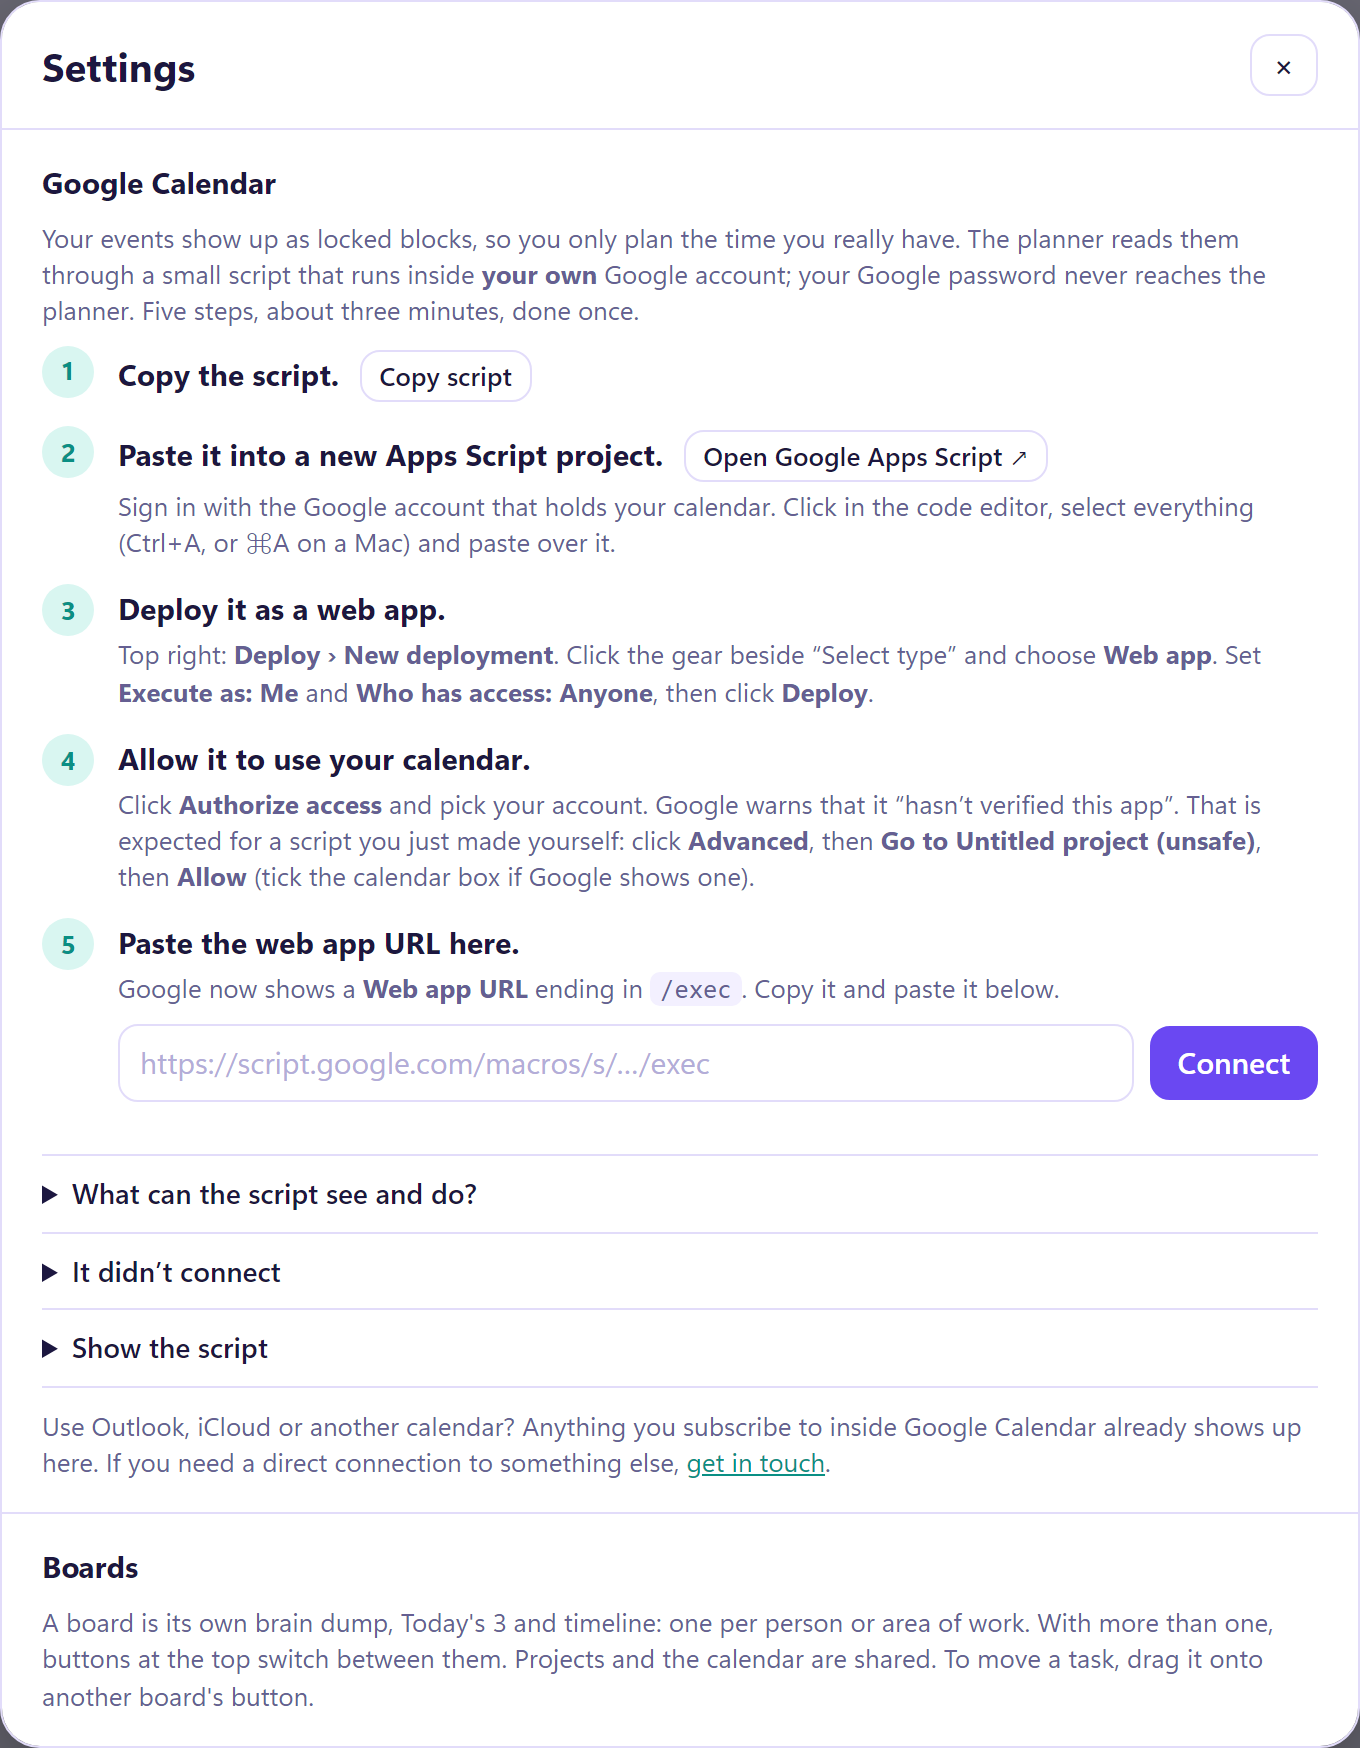
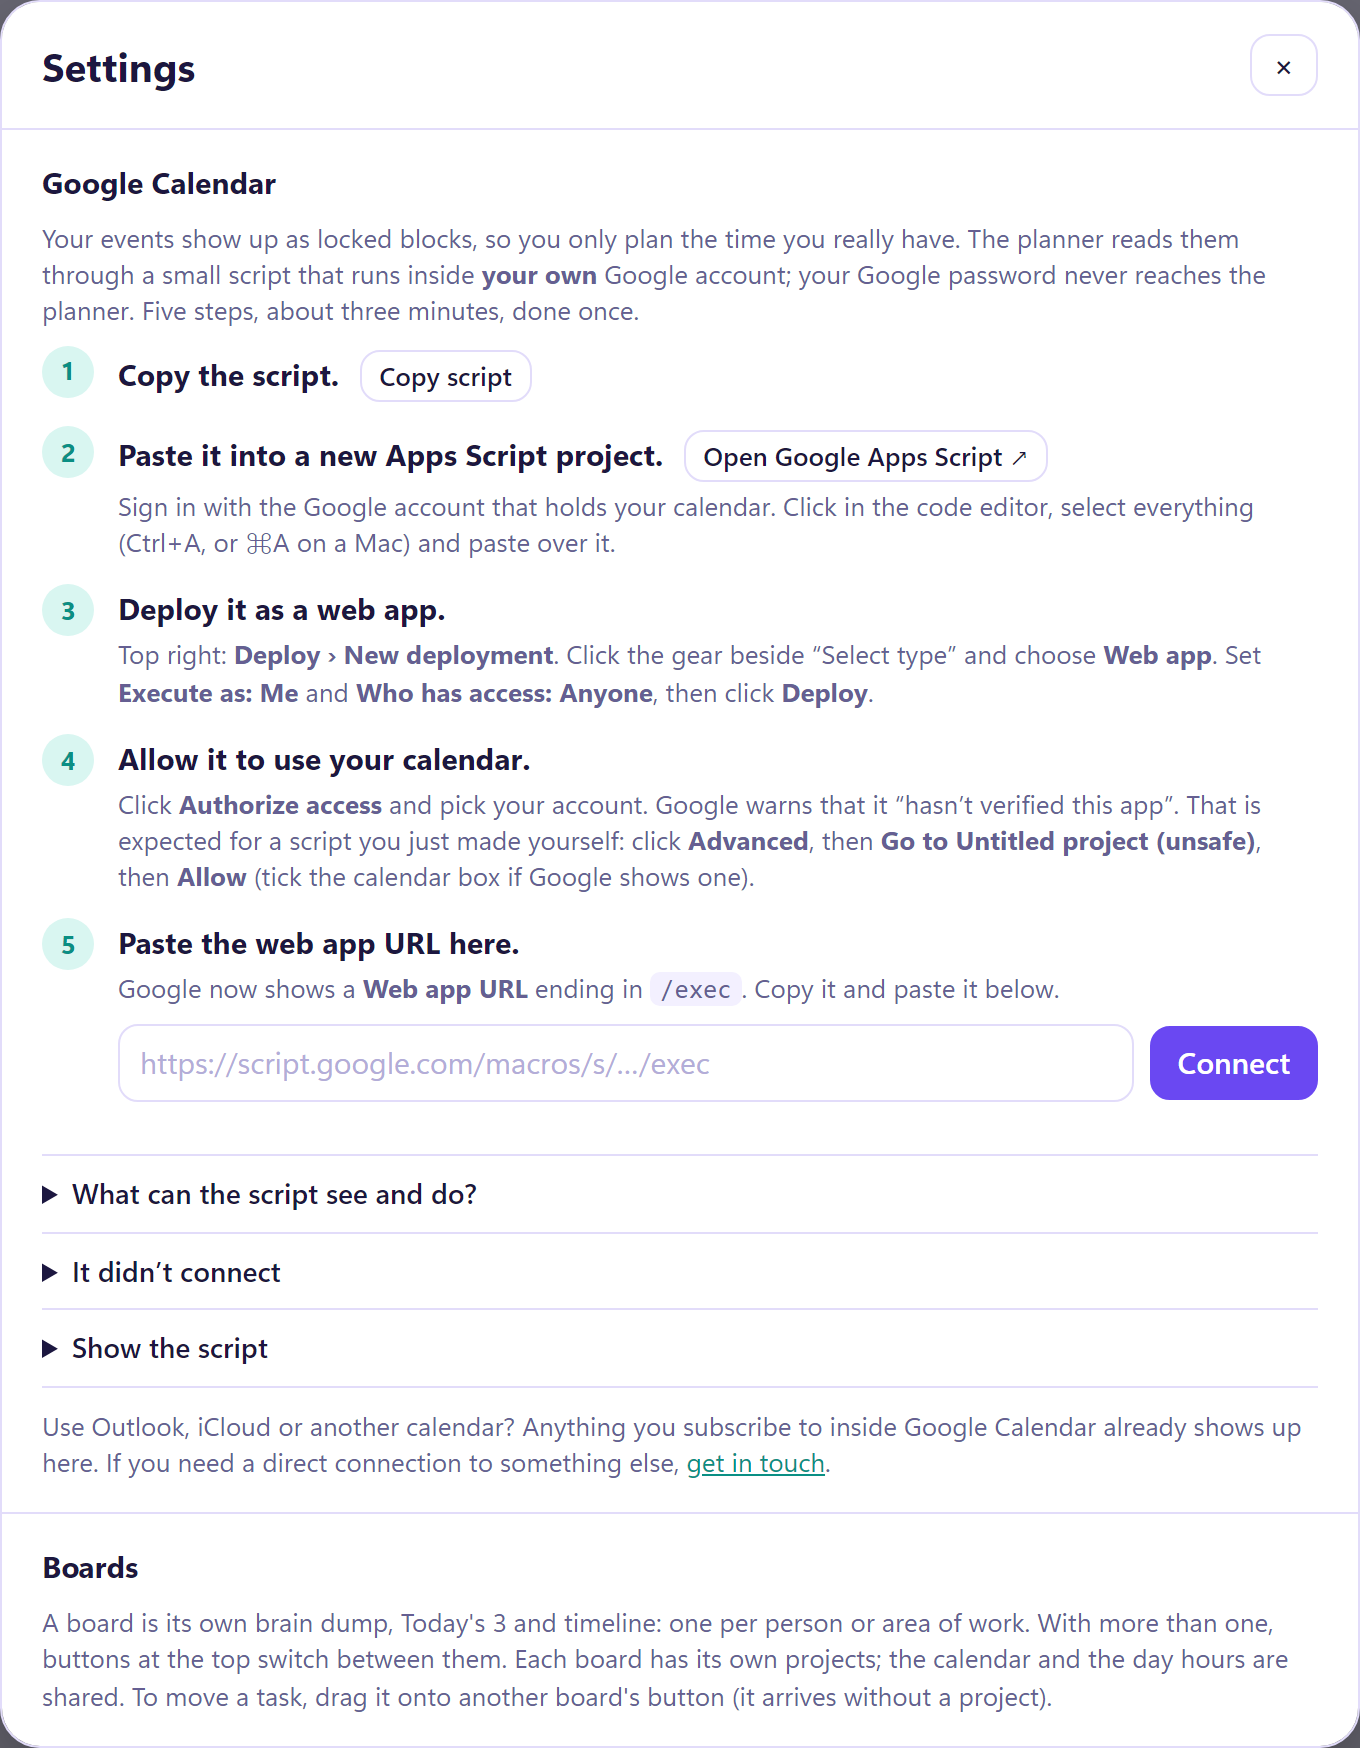
The board fills the whole window

Changed region(s): [[0.0309, 0.9268, 0.9265, 0.9886]]

diff --git a/public/assets/app.css b/public/assets/app.css
@@ -49,8 +49,9 @@ code{font:13px/1.3 Consolas,Menlo,monospace;background:var(--bg);border-radius:5
 .err{background:var(--bad-soft);color:var(--bad-ink);border-radius:10px;padding:9px 12px;margin:0;font-size:14px}
 
 /* board */
-.wrap{max-width:1360px;margin:0 auto;padding:18px 18px 50px}
-.app{background:var(--card);border:1px solid var(--line);border-radius:22px;box-shadow:var(--shadow);overflow:hidden}
+/* the board fills the window, whatever its size */
+.wrap{padding:12px;min-height:100vh;display:flex}
+.app{flex:1;min-width:0;display:flex;flex-direction:column;background:var(--card);border:1px solid var(--line);border-radius:18px;box-shadow:var(--shadow);overflow:hidden}
 /* boards: the buttons that switch between separate task lists */
 .tabs{display:flex;gap:8px;padding:12px 20px 0;flex-wrap:wrap}
 .tab{--hue:var(--pink);border:1.5px solid var(--line);background:none;color:var(--soft);border-radius:12px;padding:8px 20px;font-weight:700;font-size:15px}
@@ -74,7 +75,7 @@ code{font:13px/1.3 Consolas,Menlo,monospace;background:var(--bg);border-radius:5
 .btn.icon{padding:7px 11px;line-height:1}
 .btn.small{padding:3px 9px;font-size:13px}
 .btn:disabled{opacity:.6;cursor:wait}
-.cols{display:grid;grid-template-columns:320px 340px 1fr}
+.cols{flex:1;display:grid;grid-template-columns:minmax(300px,1fr) minmax(320px,1fr) minmax(0,2fr)}
 .col{padding:18px 18px 22px;border-right:1px solid var(--line);min-width:0}
 .col:last-child{border-right:0}
 /* each of the three steps has its own color */
@@ -220,7 +221,7 @@ dialog textarea{width:100%;border:1.5px solid var(--line);border-radius:10px;pad
 @media(max-width:1000px){
   .cols{grid-template-columns:1fr}
   .col{border-right:0;border-bottom:1px solid var(--line)}
-  .wrap{padding:8px 8px 40px}
+  .wrap{padding:8px}
   .top{padding:12px 14px}
   .top h1{font-size:20px}
 }
